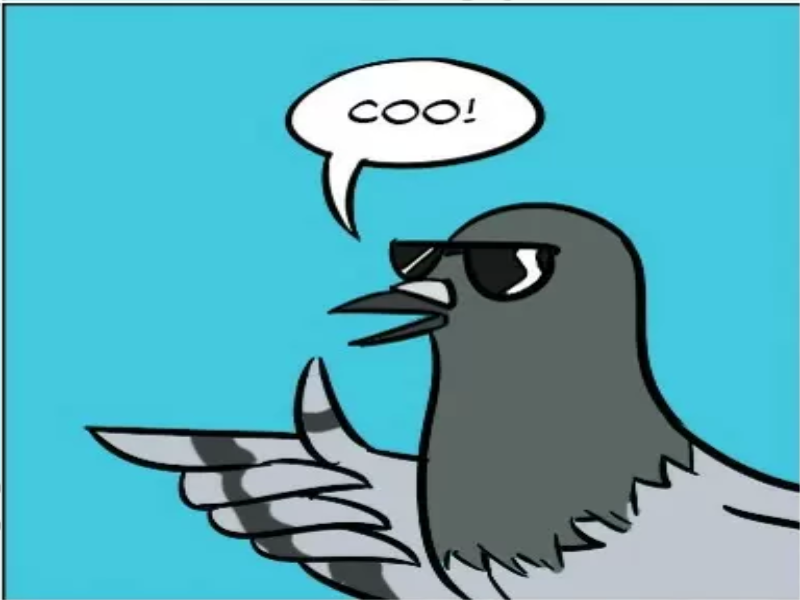
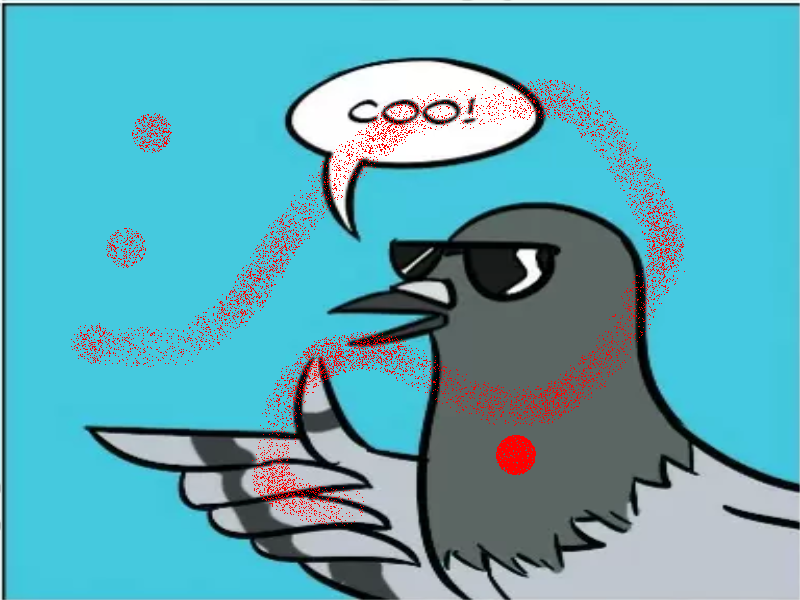
add airbrush

diff --git a/Disfigured/Engine.cpp b/Disfigured/Engine.cpp
@@ -13,14 +13,17 @@ int HEIGHT = 600;
 const char* imageVertPath = "shaders/imageShader.vert";
 const char* imageFragPath = "shaders/imageShader.frag";
 
-const char* lineVertPath = "shaders/lineShader.vert";
-const char* lineFragPath = "shaders/lineShader.frag";
+const char* brushVertPath = "shaders/brushShader.vert";
+const char* brushFragPath = "shaders/brushShader.frag";
 
-const char* squareGeomPath = "shaders/squareShader.geom";
-const char* circleGeomPath = "shaders/circleShader.geom";
+const char* pencilGeomPath = "shaders/pencilShader.geom";
+const char* eraserGeomPath = "shaders/eraserShader.geom";
 
-const char* fSlashGeomPath = "shaders/fSlashShader.geom";
-const char* bSlashGeomPath = "shaders/bSlashShader.geom";
+const char* caligFGeomPath = "shaders/caligFShader.geom";
+const char* caligBGeomPath = "shaders/caligBShader.geom";
+
+const char* airbrushGeomPath = "shaders/airbrushShader.geom";
+const char* airbrushFragPath = "shaders/airbrushShader.frag";
 
 const float imageVertices[] = {
 	-1.0, -1.0,  0.0, 0.0,
@@ -47,25 +50,34 @@ void Engine::init()
 
 	window = new Window(WIDTH, HEIGHT, "Plastic Surgery");
 	imageProgram = new ShaderProgram(imageVertPath, imageFragPath);
-	lineProgram = new ShaderProgram(lineVertPath, lineFragPath);
-	pencilProgram = new ShaderProgram(lineVertPath, circleGeomPath, lineFragPath); //pencil
-	eraserProgram = new ShaderProgram(lineVertPath, squareGeomPath, lineFragPath); //eraser
-	caligFProgram = new ShaderProgram(lineVertPath, fSlashGeomPath, lineFragPath); //caligraphy brush (forward)
-	caligBProgram = new ShaderProgram(lineVertPath, bSlashGeomPath, lineFragPath); //caligraphy brush (backward)
+	lineProgram = new ShaderProgram(brushVertPath, brushFragPath);
+	pencilProgram = new ShaderProgram(brushVertPath, pencilGeomPath, brushFragPath); //pencil
+	eraserProgram = new ShaderProgram(brushVertPath, eraserGeomPath, brushFragPath); //eraser
+	caligFProgram = new ShaderProgram(brushVertPath, caligFGeomPath, brushFragPath); //caligraphy brush (forward)
+	caligBProgram = new ShaderProgram(brushVertPath, caligBGeomPath, brushFragPath); //caligraphy brush (backward)
+	airbrushProgram = new ShaderProgram(brushVertPath, airbrushGeomPath, airbrushFragPath); //airbrush
 
 	image = loadImage("resources/coo.png");
 
+	//pencil
 	pencil = new Brush(pencilProgram, 1.0f);
 	registerBrush(pencil);
 
+	//eraser
 	eraser = new Brush(eraserProgram, ColorType::background);
 	registerBrush(eraser);
 
+	//caligraphy brush (forward)
 	caligFBrush = new Brush(caligFProgram, 15.0f);
 	registerBrush(caligFBrush);
 
+	//caligraphy brush (backward)
 	caligBBrush = new Brush(caligBProgram, 15.0f);
 	registerBrush(caligBBrush);
+
+	//airbrush
+	airbrush = new AirBrush(airbrushProgram, 40.0f);
+	registerBrush(airbrush);
 
 	activeBrush = pencil;
 	activeBrush->use();
@@ -112,8 +124,10 @@ void Engine::mainLoop()
 
 		renderFrame();
 
-		//glfwPollEvents();
-		glfwWaitEvents();
+		//glfwPollEvents(); //for uncapped framerate
+		//glfwWaitEventsTimeout(0.01677777); //around 60 fps
+		glfwWaitEventsTimeout(0.03444444); //around 30 fps
+		//glfwWaitEvents(); //for complete input waiting
 	}
 }
 
@@ -143,7 +157,7 @@ Texture * Engine::loadImage(std::string path)
 	return new Texture(path);
 }
 
-void Engine::saveImage(std::string path)
+void Engine::saveImageToFile(std::string path)
 {
 	unsigned char* pixels = new unsigned char[Window::width * Window::height * 4];
 	glReadPixels(0, 0, Window::width, Window::height, GL_RGBA, GL_UNSIGNED_BYTE, pixels);
@@ -165,7 +179,7 @@ void Engine::drawImage(Texture * image)
 	glDrawArrays(GL_TRIANGLES, 0, 6);
 }
 
-void Engine::saveFrame()
+void Engine::saveFrameToImage()
 {
 	unsigned char * pixels = new unsigned char[Window::width * Window::height * 4];
 	glReadPixels(0, 0, Window::width, Window::height, GL_RGBA, GL_UNSIGNED_BYTE, pixels);
@@ -187,6 +201,10 @@ void Engine::renderFrame()
 		frameSaved = false;
 	}
 
+	if (activeBrush == airbrush) {
+		airbrush->update();
+	}
+
 	if (activeBrush->shouldDrawLines()) {
 		activeBrush->drawLines();
 
@@ -202,7 +220,7 @@ void Engine::renderFrame()
 	}
 
 	if (!frameSaved) {
-		saveFrame();
+		saveFrameToImage();
 	}
 
 	if (Window::windowResized) {
@@ -217,7 +235,7 @@ void Engine::renderFrame()
 void Engine::handleKeyboardInput(int key, int action)
 {
 	if (key == GLFW_KEY_S && action == GLFW_PRESS) {
-		saveImage("output/niqqa.png");
+		saveImageToFile("output/niqqa.png");
 	}
 	else if (key == GLFW_KEY_P && action == GLFW_PRESS) {
 		colorPicker->use();
@@ -241,6 +259,9 @@ void Engine::handleKeyboardInput(int key, int action)
 	}
 	else if (key == GLFW_KEY_4 && action == GLFW_PRESS) { // 4 for caligraphy brush (backward)
 		useBrush(caligBBrush);
+	}
+	else if (key == GLFW_KEY_5 && action == GLFW_PRESS) { // 5 for airbrush
+		useBrush(airbrush);
 	}
 	
 }

diff --git a/Disfigured/Engine.h b/Disfigured/Engine.h
@@ -10,6 +10,7 @@
 #include "FillTool.h"
 #include "ColorPicker.h"
 #include "Brush.h"
+#include "AirBrush.h"
 
 
 class Engine : public KeyboardControl
@@ -19,26 +20,31 @@ public:
 	void start();
 
 private:
+
 	GLuint vao;
 	GLuint vbo;
 
 	Window* window;
+	Texture* image;
+	ColorBox* colorBox;
+	FillTool* fillTool;
+	ColorPicker* colorPicker;
+
+	//shaders
 	ShaderProgram* imageProgram;
 	ShaderProgram* lineProgram;
 	ShaderProgram* pencilProgram;
 	ShaderProgram* eraserProgram;
 	ShaderProgram* caligFProgram;
 	ShaderProgram* caligBProgram;
-	Texture* image;
-	ColorBox* colorBox;
-	FillTool* fillTool;
-	ColorPicker* colorPicker;
+	ShaderProgram* airbrushProgram;
 
 	//available brushes
 	Brush* pencil;
 	Brush* eraser;
 	Brush* caligFBrush;
 	Brush* caligBBrush;
+	AirBrush* airbrush; //separate class because it has different behavior
 
 	Brush* activeBrush;
 
@@ -49,15 +55,16 @@ private:
 	void mainLoop();
 	void cleanup();
 
+	void renderFrame();
+
+
 	void registerBrush(Brush* brush);
 	void useBrush(Brush* brush);
 
 	Texture* loadImage(std::string path);
-	void saveImage(std::string path);
+	void saveImageToFile(std::string path);
 	void drawImage(Texture* image);
-	void saveFrame();
-
-	void renderFrame();
+	void saveFrameToImage();
 
 	void handleKeyboardInput(int key, int action) override;
 };

diff --git a/Disfigured/AirBrush.cpp b/Disfigured/AirBrush.cpp
@@ -1,0 +1,51 @@
+#include <glfw/glfw3.h>
+
+#include "AirBrush.h"
+
+
+AirBrush::AirBrush(ShaderProgram * program, float size) :
+	Brush(program, size)
+{
+}
+
+void AirBrush::update()
+{
+	if (active) {
+		if (mouseButtonDown) {
+			//draw on the click point
+			lineVertexData.push_back((float)currentXPos);
+			lineVertexData.push_back((float)currentYPos);
+			lineVertexData.push_back((float)currentXPos);
+			lineVertexData.push_back((float)currentYPos);
+		}
+	}
+}
+
+void AirBrush::handleMouseClick(int button, int action, double xPosition, double yPosition)
+{
+	if (active) {
+		if (button == GLFW_MOUSE_BUTTON_1 && action == GLFW_PRESS) {
+			mouseButtonDown = true;
+
+			currentXPos = xPosition;
+			currentYPos = yPosition;
+
+			//draw on the click point
+			lineVertexData.push_back((float)xPosition);
+			lineVertexData.push_back((float)yPosition);
+			lineVertexData.push_back((float)xPosition);
+			lineVertexData.push_back((float)yPosition);
+		}
+		if (button == GLFW_MOUSE_BUTTON_1 && action == GLFW_RELEASE) {
+			mouseButtonDown = false;
+		}
+	}
+}
+
+void AirBrush::handleMouseMovement(double xPosition, double yPosition, double xPrevPosition, double yPrevPosition)
+{
+	if (active) {
+		currentXPos = xPosition;
+		currentYPos = yPosition;
+	}
+}

diff --git a/Disfigured/Brush.h b/Disfigured/Brush.h
@@ -21,28 +21,30 @@ public:
 
 	void unuse();
 
-	void drawLines();
+	virtual void drawLines();
 
 	bool shouldDrawLines();
 
+protected:
+
+	virtual void handleMouseClick(int button, int action, double xPosition, double yPosition) override;
+	virtual void handleMouseMovement(double xPosition, double yPosition, double xPrevPosition, double yPrevPosition) override;
+
+	std::vector<float> lineVertexData;
+
+	bool active;
+	bool mouseButtonDown;
+
 private:
 
-	GLuint vao;
-	GLuint vbo;
+	unsigned int vao;
+	unsigned int vbo;
 
 	ShaderProgram *program;
 	ColorType colortype;
 
 	float size;
 
-	bool active;
-	bool mouseButtonDown;
-
-	std::vector<float> lineVertexData;
-
 	void construct(ShaderProgram * program, ColorType type, float size);
 	glm::vec3 getColor();
-
-	void handleMouseClick(int button, int action, double xPosition, double yPosition) override;
-	void handleMouseMovement(double xPosition, double yPosition, double xPrevPosition, double yPrevPosition) override;
 };

diff --git a/Disfigured/AirBrush.h b/Disfigured/AirBrush.h
@@ -1,0 +1,19 @@
+#pragma once
+
+#include "Brush.h"
+
+
+class AirBrush : public Brush
+{
+public:
+	AirBrush(ShaderProgram * program, float size);
+
+	void update();
+
+protected:
+	void handleMouseClick(int button, int action, double xPosition, double yPosition) override;
+	void handleMouseMovement(double xPosition, double yPosition, double xPrevPosition, double yPrevPosition) override;
+
+	double currentXPos;
+	double currentYPos;
+};

diff --git a/Disfigured/Brush.cpp b/Disfigured/Brush.cpp
@@ -90,6 +90,7 @@ void Brush::drawLines()
 	program->setUniformVec3("color", getColor());
 	program->setUniformFloat("width", size / Window::width);
 	program->setUniformFloat("height", size / Window::height);
+	program->setUniformFloat("seed", (float)sin(glfwGetTime()));
 
 	glBindVertexArray(vao);
 	glDrawArrays(GL_LINES, 0, (GLsizei)lineVertexData.size() / 2);
